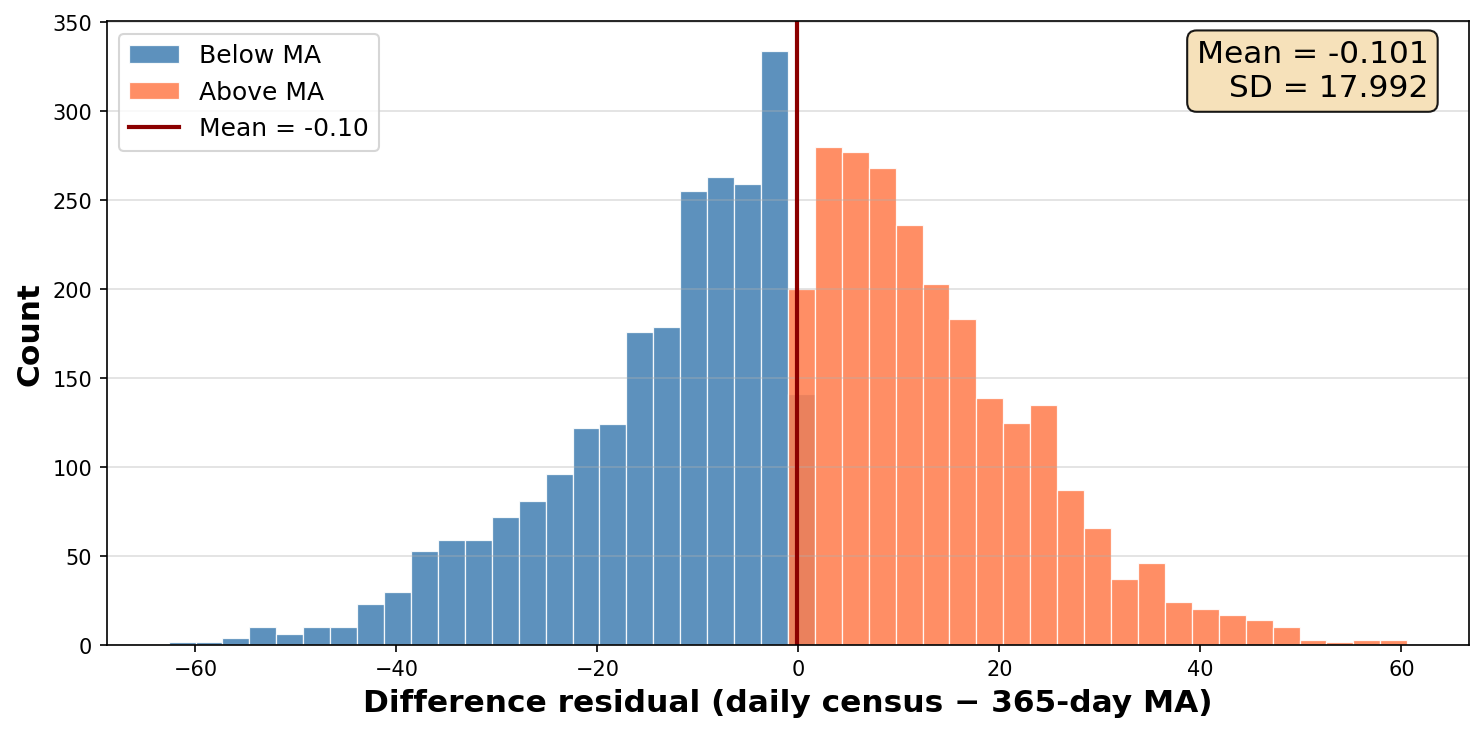
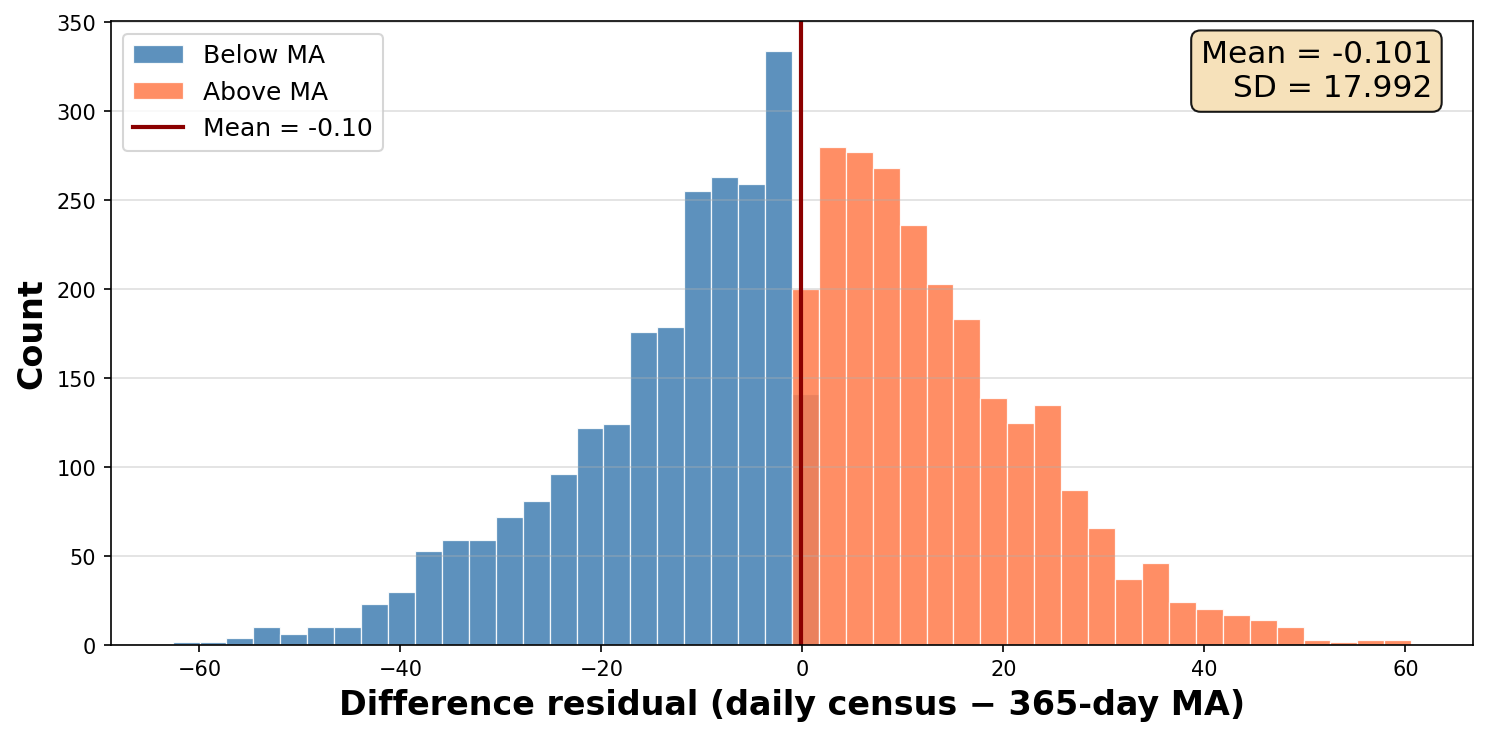
new graph updates, bolded/font size increase

Changed region(s): [[0.0, 0.0, 0.9919, 0.9918], [0.8059, 0.0601, 0.9609, 0.1803]]

diff --git a/scripts/06_visualize_adp_calculation.py b/scripts/06_visualize_adp_calculation.py
@@ -85,7 +85,7 @@ def main():
     daily_culp, annual_adp_culp = compute_daily_census_and_adp(df_culpeper, 2030)
     print("Computing daily census (all counties incl. County 47) for adp_daily_and_annual figure...")
     daily_census_all, _ = compute_daily_census_and_adp(df, 2030)
-
+    
     # Hardcoded Culpeper ADP used in run_forecast.py (for comparison)
     culpeper_hardcoded = {
         '2020': 148.93, '2021': 185.75, '2022': 210.82,
@@ -169,9 +169,8 @@ def main():
     #ax.plot(ma90.index, ma90.values, color='darkorange', linewidth=1.5, label='90-day moving average')
     #ax.plot(ma30.index, ma30.values, color='purple', linewidth=1.2, label='30-day moving average')
 
-    ax.set_xlabel('Date', fontsize = 14)
-    ax.set_ylabel('Daily census (count)', fontsize = 14)
-    ax.set_title('Daily Census and Moving Average', fontsize = 20)
+    ax.set_xlabel('Date', fontsize=16, fontweight='bold')
+    ax.set_ylabel('Daily census (count)', fontsize=16, fontweight='bold')
     ax.legend(loc='lower right', fontsize=11)
     ax.set_ylim(0, None)
     ax.grid(True, alpha=0.5)
@@ -195,8 +194,8 @@ def main():
     ax_r.fill_between(diff_residuals.index, 0, neg, color='steelblue', alpha=0.35, label='Below MA')
     ax_r.plot(diff_residuals.index, diff_residuals.values, color='dimgray', linewidth=0.35, alpha=0.7)
     ax_r.axhline(0, color='black', linewidth=0.9)
-    ax_r.set_ylabel('Difference residual\n(daily census − 365-day MA)', fontsize=11)
-    ax_r.set_xlabel('Date', fontsize=12)
+    ax_r.set_ylabel('Difference residual\n(daily census − 365-day MA)', fontsize=16, fontweight='bold')
+    ax_r.set_xlabel('Date', fontsize=16, fontweight='bold')
     ax_r.grid(True, alpha=0.45)
     ax_r.legend(loc='upper right', fontsize=8, ncol=2)
 
@@ -236,8 +235,8 @@ def main():
         label='Above MA',
     )
     ax_h.axvline(resid_mean, color='darkred', linestyle='-', linewidth=2, label=f'Mean = {resid_mean:.2f}')
-    ax_h.set_xlabel('Difference residual (daily census − 365-day MA)', fontsize=15, fontweight='bold')
-    ax_h.set_ylabel('Count', fontsize=15, fontweight='bold')
+    ax_h.set_xlabel('Difference residual (daily census − 365-day MA)', fontsize=16, fontweight='bold')
+    ax_h.set_ylabel('Count', fontsize=16, fontweight='bold')
     ax_h.grid(True, axis='y', alpha=0.4)
     stats_text = f'Mean = {resid_mean:.3f}\nSD = {resid_std:.3f}'
     ax_h.text(

diff --git a/scripts/07_capacity_forecast_visualization.py b/scripts/07_capacity_forecast_visualization.py
@@ -21,7 +21,7 @@ FORECAST_RESULTS_CSV = os.path.join(_ROOT, "data", "outputs", "forecast_results.
 CULPEPER_IN_CVRJ_CSV = os.path.join(_ROOT, "data", "outputs", "forecast_annual_culpeper_in_cvrj.csv")
 FORECAST_START_YEAR = 2026
 FONT_TITLE = 18
-FONT_LABEL = 15
+FONT_LABEL = 17
 FONT_LEGEND = 12
 FONT_ANNO = 14
 
@@ -165,7 +165,7 @@ def plot_capacity(ax, annual_cvrj_adp, years_future, cvrj_forecast_vals, combine
     if draw_forecast_marker:
         ax.axvline(x=x_forecast, color='gray', linestyle='--', linewidth=1.5, zorder=0)
         ymin, ymax = ax.get_ylim()
-        ax.axvspan(x_forecast, all_years[-1], alpha=0.22, color='gray', zorder=0)
+        ax.axvspan(x_forecast, all_years[-1], alpha=0.18, color='gray', zorder=0)
         ax.set_ylim(ymin, ymax)
         # Place the \"Historical\" / \"Forecast\" labels well away from the capacity line
         # so they don't overlap the red 660-bed line.
